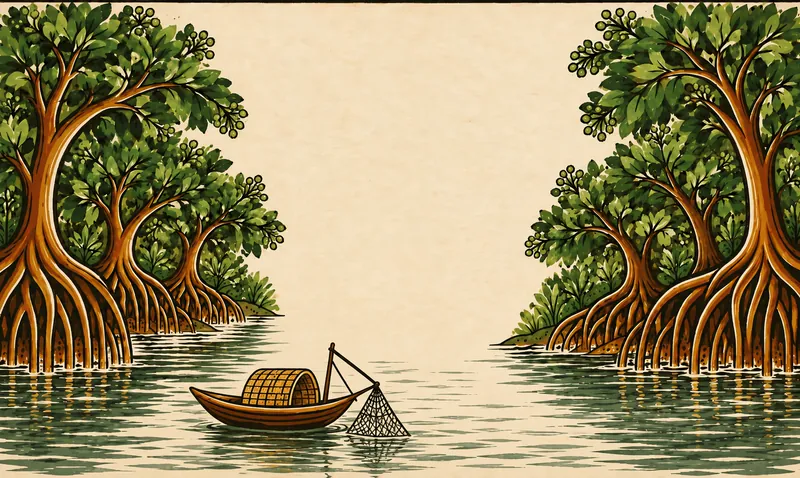
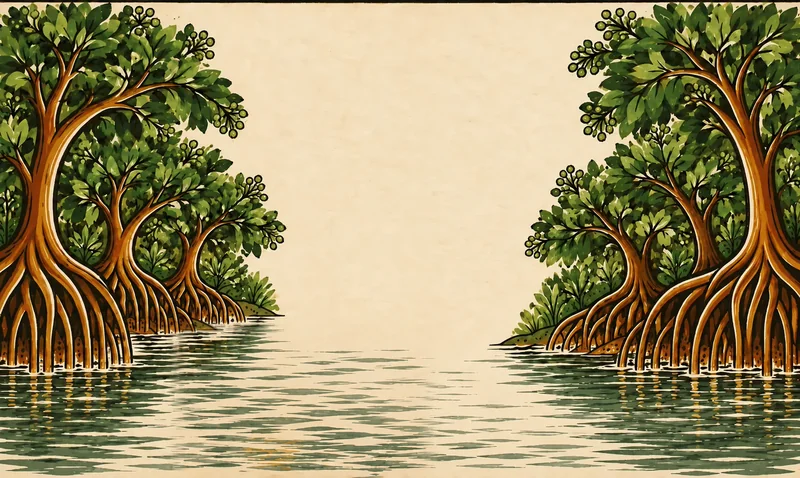
feat(home): carry the Lounge boat into the Home hero and ground the tiger
Home's painted fishing boat is replaced by the Lounge boatman sprite so the
boat reads as one continuous character across the site. The plate is
repainted without the old boat; the new boat glides in, rocks, sinks below
the waterline and casts a broken reflection.

The tiger now stands on a painted mud bank instead of open water, and is
smaller on phones so it no longer dominates the scene or overlaps the boat.

Changed region(s): [[0.2188, 0.6736, 0.5625, 1.0]]

diff --git a/src/pages/HomePage.vue b/src/pages/HomePage.vue
@@ -41,7 +41,12 @@
               />
               <canvas ref="waterEl" class="water" />
             </div>
-            <div class="tiger">
+            <div class="boat">
+              <img class="boat-refl" :src="ASSET.boat" alt="" draggable="false" decoding="async" />
+              <img class="boat-art" :src="ASSET.boat" alt="" draggable="false" decoding="async" />
+            </div>
+            <div class="stage">
+              <img class="bank" :src="ASSET.bank" alt="" draggable="false" decoding="async" />
               <div class="walk">
                 <div class="bob">
                   <PatFigure
@@ -526,7 +531,8 @@ function applyPointer() {
   }
 }
 
-// ---- Water: the plate's river rows ripple sideways, the fishing boat rocks ------------------
+// ---- Water: the plate's river rows ripple sideways; the boat is a sprite that rocks in CSS -----
+const RIPPLE_Y = 805; // plate y where the river rows start (below the boat's waterline)
 const forestEl = ref(null);
 const waterEl = ref(null);
 let geo = null;
@@ -557,13 +563,18 @@ function measureWater() {
   const s = Math.max(W / FOREST.w, H / FOREST.h); // object-fit: cover, anchored bottom
   const ox = (W - FOREST.w * s) / 2;
   const oy = H - FOREST.h * s;
-  const top = oy + FOREST.boat.y * s;
+  const top = oy + RIPPLE_Y * s;
   const dpr = Math.min(devicePixelRatio || 1, 1.5);
   cv.style.top = `${top}px`;
   cv.style.height = `${H - top}px`;
   cv.width = Math.round(W * dpr);
   cv.height = Math.round((H - top) * dpr);
   geo = { s, ox, oy, top, dpr, W, H };
+  // The boat sprite is placed in plate coordinates, so it tracks object-fit: cover.
+  const b = FOREST.boat;
+  scene.style.setProperty('--boat-x', `${ox + b.x * s}px`);
+  scene.style.setProperty('--boat-y', `${oy + b.y * s}px`);
+  scene.style.setProperty('--boat-w', `${b.w * s}px`);
 }
 function kickWater() {
   if (RM.value || waterRaf || !forestReady || !heroLive.value || document.hidden) return;
@@ -584,7 +595,7 @@ function drawWater(t) {
   ctx.setTransform(dpr, 0, 0, dpr, 0, 0);
   ctx.clearRect(0, 0, W, cv.height / dpr);
   // River rows below the boat's waterline: each 2-plate-px row slides on its own sine.
-  const y0 = 805;
+  const y0 = RIPPLE_Y;
   for (let y = y0; y < FOREST.h; y += 2) {
     const amp = Math.min(1, (y - y0) / 40) * 2.4;
     const dx = Math.sin(sec * 1.25 + y * 0.075) * amp + Math.sin(sec * 0.6 + y * 0.021) * amp * 0.5;
@@ -602,45 +613,7 @@ function drawWater(t) {
     );
   }
   ctx.globalAlpha = 1;
-  // The fishing boat rocks on the swell.
-  const b = FOREST.boat;
-  const cx = ox + (b.x + b.w / 2) * s;
-  const cy = oy + (b.y + b.h * 0.85) * s - top;
-  ctx.save();
-  ctx.translate(cx, cy + Math.sin(sec * 1.1) * 1.6);
-  ctx.rotate(Math.sin(sec * 1.1 - 0.8) * 0.011);
-  ctx.drawImage(boatCopy(img, k), -b.w * s * 0.5, -b.h * s * 0.85, b.w * s, b.h * s);
-  ctx.restore();
   waterRaf = requestAnimationFrame(drawWater);
-}
-
-// The boat's patch of the plate, feathered at the sides and bottom so its rocking leaves no seam.
-let boatCv = null;
-function boatCopy(img, k) {
-  if (boatCv?.src === img.currentSrc && boatCv.width === img.naturalWidth) return boatCv.cv;
-  const b = FOREST.boat;
-  const cv = document.createElement('canvas');
-  cv.width = Math.round(b.w * k);
-  cv.height = Math.round(b.h * k);
-  const c = cv.getContext('2d');
-  c.drawImage(img, b.x * k, b.y * k, b.w * k, b.h * k, 0, 0, cv.width, cv.height);
-  c.globalCompositeOperation = 'destination-in';
-  const gx = c.createLinearGradient(0, 0, cv.width, 0);
-  gx.addColorStop(0, '#0000');
-  gx.addColorStop(0.06, '#000');
-  gx.addColorStop(0.94, '#000');
-  gx.addColorStop(1, '#0000');
-  c.fillStyle = gx;
-  c.fillRect(0, 0, cv.width, cv.height);
-  const gy = c.createLinearGradient(0, 0, 0, cv.height);
-  gy.addColorStop(0, '#0000');
-  gy.addColorStop(0.04, '#000');
-  gy.addColorStop(0.9, '#000');
-  gy.addColorStop(1, '#0000');
-  c.fillStyle = gy;
-  c.fillRect(0, 0, cv.width, cv.height);
-  boatCv = { src: img.currentSrc, width: img.naturalWidth, cv };
-  return cv;
 }
 
 function onVisibility() {
@@ -979,6 +952,66 @@ img.forest.ink {
   width: 100%;
   pointer-events: none;
 }
+/* The Lounge's boatman, placed by measureWater() in plate coordinates. The wrapper glides in from
+   the left; the art rocks on the swell. The hull sinks below the waterline (82% of the sprite) and
+   is mirrored there, broken into strokes like the plate's ripples, so the boat sits in the water. */
+.boat {
+  position: absolute;
+  left: var(--boat-x, 30%);
+  top: var(--boat-y, 60%);
+  width: var(--boat-w, 30%);
+  pointer-events: none;
+}
+.pat:not(.ff) .boat {
+  animation: boat-in 1.6s var(--ease-out) 0.6s both;
+}
+.boat img {
+  display: block;
+  width: 100%;
+  height: auto;
+}
+.boat-art {
+  position: relative;
+  transform-origin: 50% 82%;
+  -webkit-mask: linear-gradient(var(--ink) 80%, transparent 93%);
+  mask: linear-gradient(var(--ink) 80%, transparent 93%);
+  animation: boat-rock 4s ease-in-out infinite;
+}
+.boat-refl {
+  position: absolute;
+  inset: 0;
+  transform: scaleY(-0.7);
+  transform-origin: 50% 82%;
+  opacity: 0.5;
+  mix-blend-mode: multiply;
+  -webkit-mask:
+    linear-gradient(transparent 30%, var(--ink) 74%, var(--ink) 80%, transparent 83%),
+    repeating-linear-gradient(var(--ink) 0 3px, transparent 3px 6px);
+  -webkit-mask-composite: source-in;
+  mask:
+    linear-gradient(transparent 30%, var(--ink) 74%, var(--ink) 80%, transparent 83%),
+    repeating-linear-gradient(var(--ink) 0 3px, transparent 3px 6px);
+  mask-composite: intersect;
+}
+@keyframes boat-in {
+  from {
+    translate: -40% 0;
+    opacity: 0;
+  }
+  to {
+    translate: 0 0;
+    opacity: 1;
+  }
+}
+@keyframes boat-rock {
+  0%,
+  100% {
+    transform: translateY(0) rotate(0);
+  }
+  50% {
+    transform: translateY(-1.5px) rotate(0.6deg);
+  }
+}
 .pat:not(.ff) .forest.color {
   -webkit-mask: var(--brush-v) no-repeat 0 100% / 100% 250%;
   mask: var(--brush-v) no-repeat 0 100% / 100% 250%;
@@ -1004,14 +1037,35 @@ img.forest.ink {
   display: none;
 }
 
-/* The tiger: walks in as a line drawing, stops on the bank, is coloured in. */
-.tiger {
+/* The tiger: walks in as a line drawing, stops on the bank, is coloured in. The stage is sized by
+   its width; the figure fills it. The bank is a sibling before .walk, so it stays put while the tiger
+   walks onto it; its mud top sits at the paw line. Numbers are fractions of the figure's width. */
+.stage {
   position: absolute;
-  left: 45%;
+  left: 56%;
   bottom: 17%;
-  width: 36%;
+  width: 13%;
   transform: translate(calc(var(--mx) * 9px), calc(var(--my) * 4px));
   transition: transform 0.8s var(--ease-out);
+}
+.bank {
+  position: absolute;
+  left: 50%;
+  bottom: -16%;
+  width: 140%;
+  height: auto;
+  transform: translateX(-50%);
+  /* Toned down from the sprite's brighter ochre to sit with the plate's earth. */
+  filter: saturate(0.8) brightness(0.9);
+  pointer-events: none;
+}
+.pat:not(.ff) .bank {
+  animation: bank-in 0.9s var(--ease-out) 0.4s both;
+}
+@keyframes bank-in {
+  from {
+    opacity: 0;
+  }
 }
 .pat:not(.ff) .walk {
   animation: walk 1.9s cubic-bezier(0.3, 0.1, 0.25, 1) 0.55s both;
@@ -1748,10 +1802,11 @@ h3 {
     grid-row: 3;
     margin-top: 12px;
   }
-  .tiger {
-    left: 22%;
-    width: 72%;
-    bottom: 22%;
+  .stage {
+    left: auto;
+    right: 8%;
+    width: 32%;
+    bottom: 14%;
   }
   .panel {
     /* minmax(0, …): a bare 1fr grows to the poster line's scroll width and pushes the art off-screen. */
@@ -1783,7 +1838,11 @@ h3 {
 }
 
 @media (prefers-reduced-motion: reduce) {
-  .tiger,
+  .boat,
+  .boat-art {
+    animation: none;
+  }
+  .stage,
   .title {
     transform: none;
     transition: none;

diff --git a/src/lib/pat.js b/src/lib/pat.js
@@ -13,14 +13,18 @@ export const ASSET = {
   grain: u('grain.webp'),
   brush: u('brush.webp'),
   brushV: u('brush-v.webp'),
+  bank: u('tiger-bank.webp'),
+  // The Members Lounge's boatman, day art: the same boat the story returns to.
+  boat: new URL('../components/lounge/art/r6/boat-day.webp', import.meta.url).href,
 };
 
-// Forest plate geometry (source px) for the water canvas: the river band and the fishing boat.
+// Forest plate geometry (plate px) for the water canvas and the boat. The boat is the Lounge's
+// day sprite (800x328), placed by its left/top and width (height follows the sprite's ratio).
 export const FOREST = {
   w: 1536,
   h: 918,
   river: 716,
-  boat: { x: 300, y: 555, w: 460, h: 260 },
+  boat: { x: 300, y: 600, w: 520 },
 };
 
 const p = (file, box, cls, extra = {}) => ({ src: u(file), cls, ...box, ...extra });
